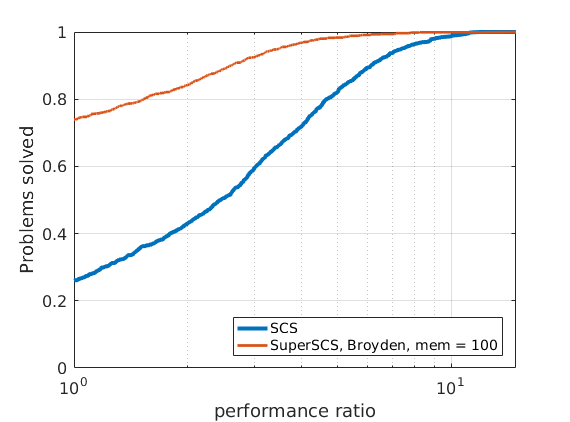
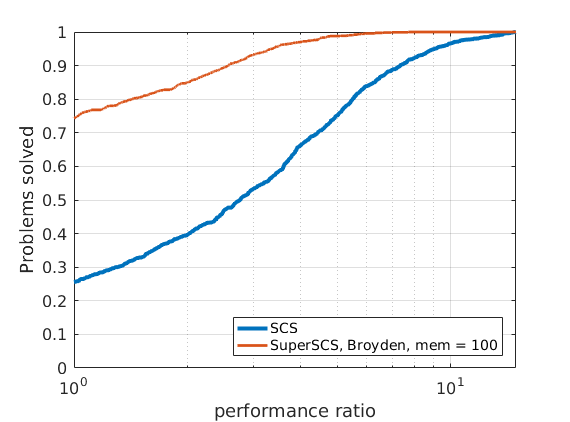
:wrench: :memo: LASSO benchmarks complete

diff --git a/tests/profiling_matlab/set_pars.m b/tests/profiling_matlab/set_pars.m
@@ -34,10 +34,18 @@ function set_pars(solver_ops)
 %                                  running SuperSCS (slows down execution).
 %             warm_start - warm start
 %             max_iters - maximum number of iterations
+%             max_time_milliseconds - SuperSCS can be instructed to stop
+%                                     after a certain time (in ms). The
+%                                     default value is 300000ms, that is 5
+%                                     minutes
 %             dumpfile - where to store solver info (preferably, full path)
 %             use_indirect - whether to use the indirect method
 %
 
+
+% --- Important Note: In MATLAB, the solver tolerance corresponds to
+% parameter `tolerance`. This is mapped to `eps` because this is how the C
+% code will receive it. 
 cvx_solver_settings(...
     'alpha', solver_ops.alpha, ...
     'beta', solver_ops.beta,...
@@ -66,8 +74,14 @@ cvx_solver_settings(...
 
 if ~isempty(solver_ops.dumpfile),
     cvx_solver_settings('dumpfile', solver_ops.dumpfile);
+else
+    % --- if no file is provided, use /temp/temp.mat.
+    cvx_solver_settings('dumpfile', fullfile(get_scs_rootdir,'temp','temp.mat'));
 end
 
+% --- the default is the indirect mode...
 if ~isempty(solver_ops.use_indirect),
     cvx_solver_settings('use_indirect', solver_ops.use_indirect);
+else
+    cvx_solver_settings('use_indirect', 1);
 end

diff --git a/pages/benchmarks_page.h b/pages/benchmarks_page.h
@@ -61,7 +61,18 @@
  *          <img src="images/lasso/lasso-broyden-100.png" alt="lasso-broyden-100" width="95%"/>
  *      </td>
  *      <td style="padding:1px">
- *          <img src="images/lasso/lasso-anderson-10-15.png" alt="lasso-anderson-10-15" width="95%"/>
+ *          <img src="images/lasso/lasso-anderson-5.png" alt="lasso-anderson-5" width="95%"/>
+ *      </td>
+ *  </tr>
+ *  <tr>
+ *      <td style="padding:1px">
+ *          <img src="images/lasso/lasso-anderson-10.png" alt="lasso-anderson-10" width="95%"/>
+ *      </td>
+ *      <td style="padding:1px">
+ *          <img src="images/lasso/lasso-anderson-15.png" alt="lasso-anderson-15" width="95%"/>
+ *      </td>
+ *      <td style="padding:1px">
+ *          <img src="images/lasso/lasso-anderson-20.png" alt="lasso-anderson-20" width="95%"/>
  *      </td>
  *  </tr>
  * </table>

diff --git a/pages/contributing_page.h b/pages/contributing_page.h
@@ -14,7 +14,7 @@
  * SuperSCS follows the following naming convention:
  * 
  * - typed structures are camel-case, e.g., #ScsCone and #ScsData
- * - all functions start with <coode>scs_</code> or <code>superscs></code>; 
+ * - all functions start with <code>scs_</code> or <code>superscs></code>; 
  *   this is because C lacks namespaces. 
  *   we need to avoid name clashes with other libraries
  * - all function names are lowercare, e.g., #scs_init_data
